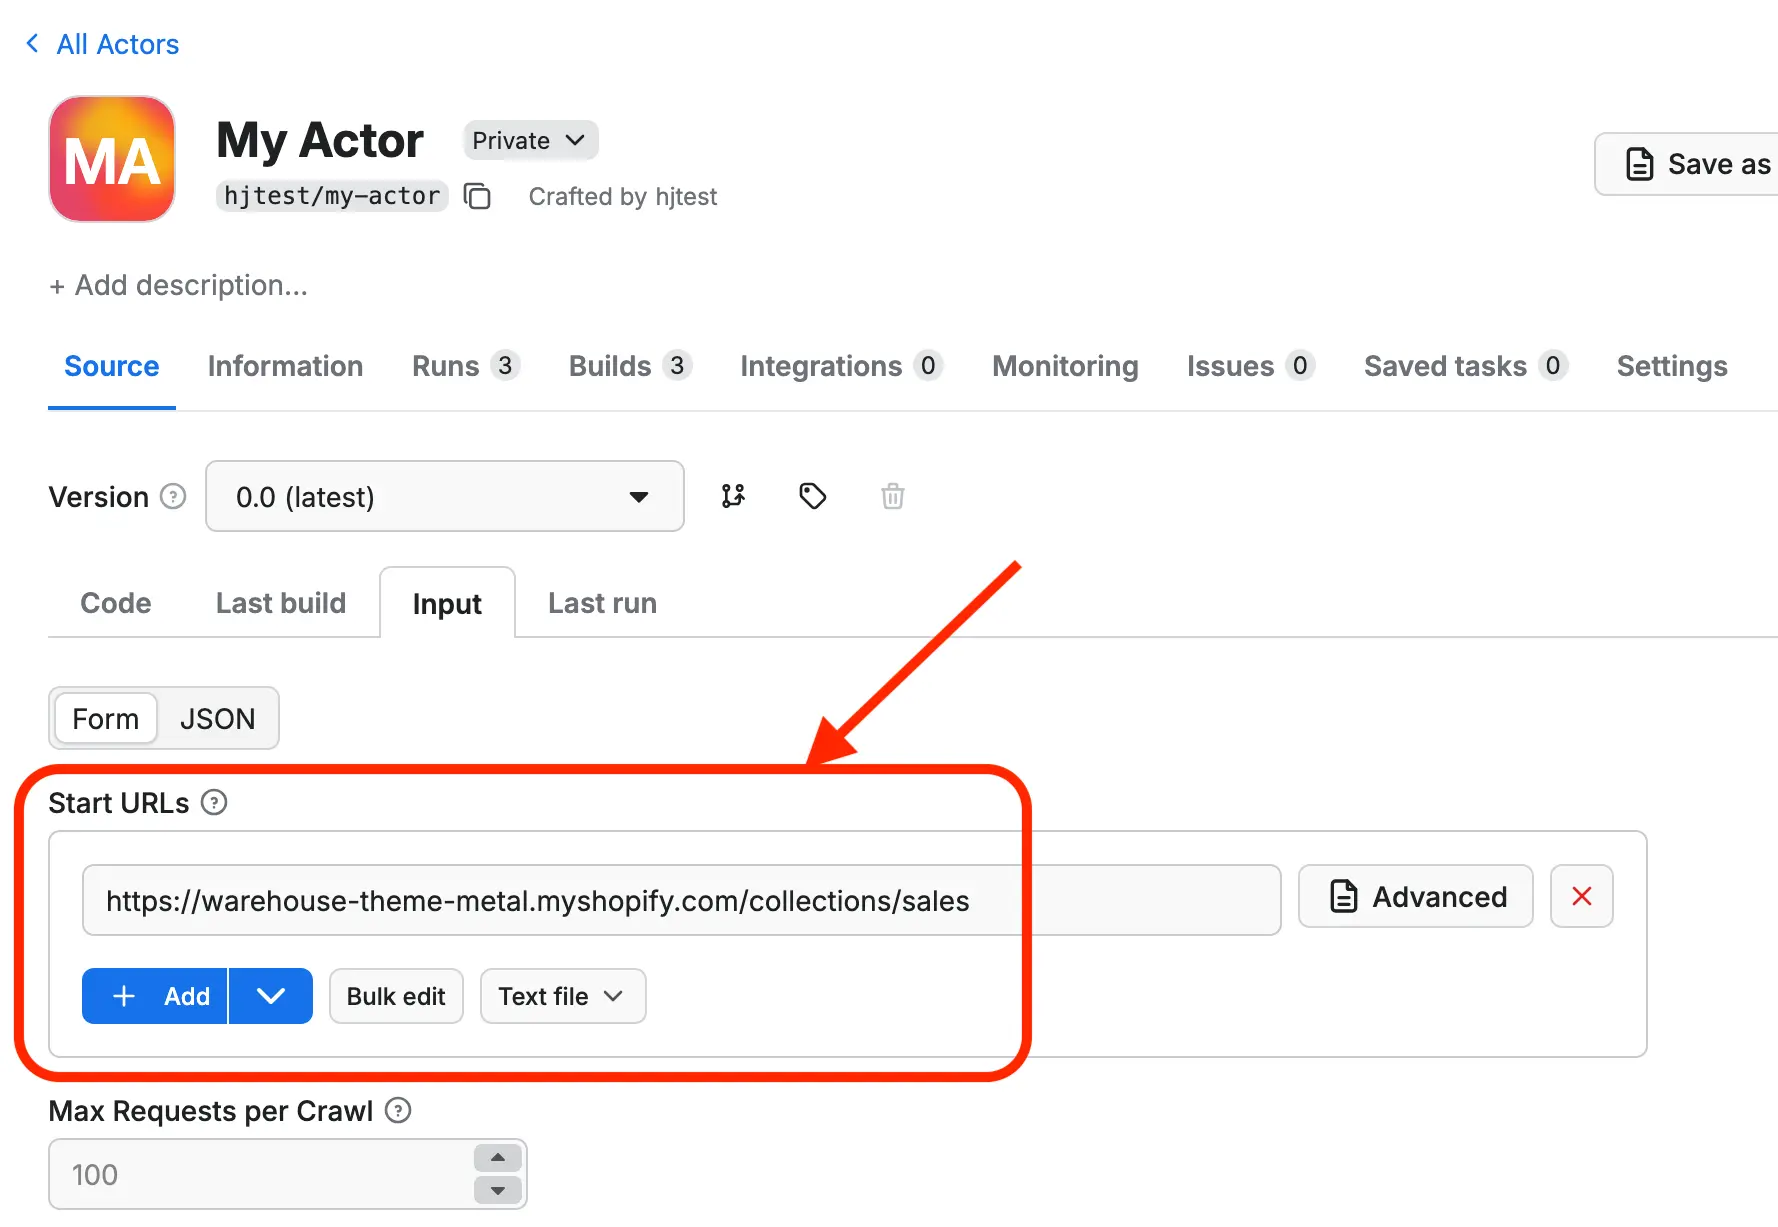
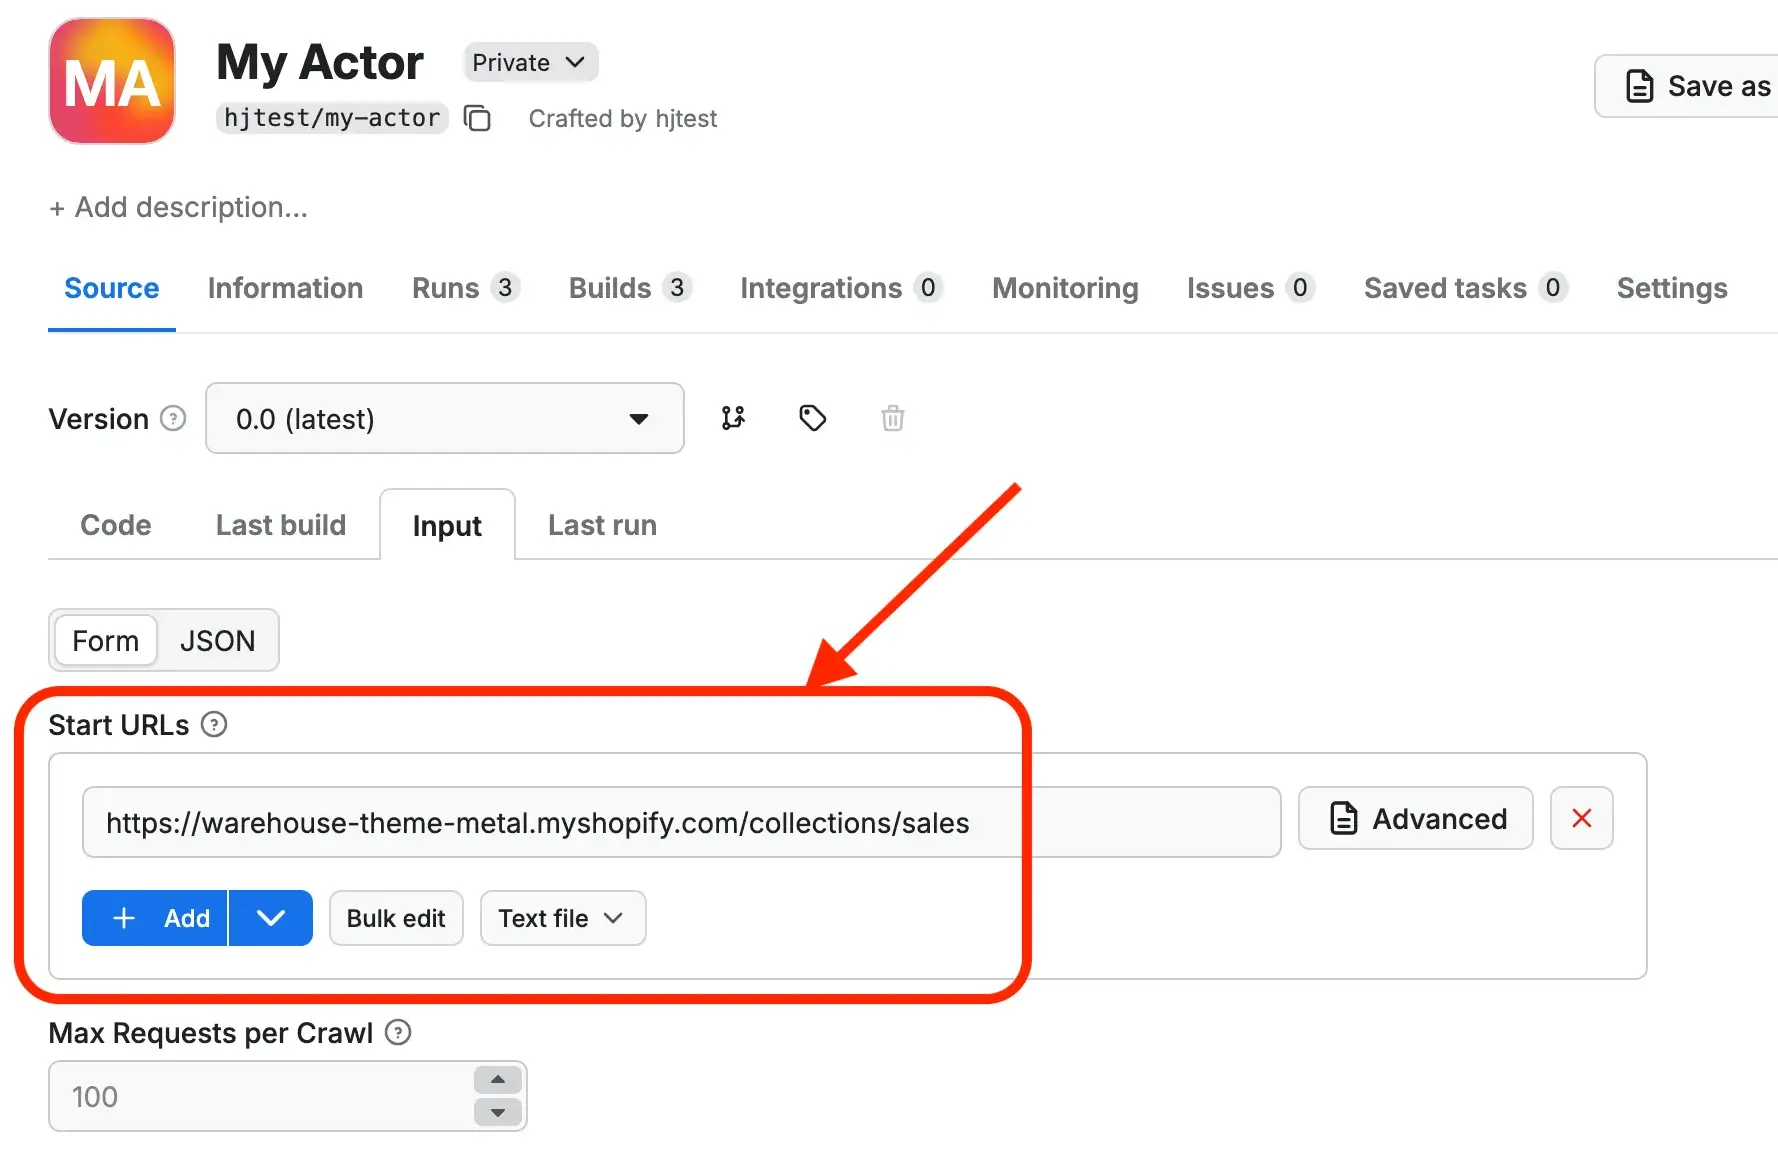
change the new actor flow

diff --git a/sources/academy/platform/scraping_with_apify_and_ai/01_developing_scraper_ai_chat.md b/sources/academy/platform/scraping_with_apify_and_ai/01_developing_scraper_ai_chat.md
@@ -44,21 +44,21 @@ Once we have an active account, we can start working on our scraper. Using the p
 
 Your phone runs apps, Apify runs Actors. If we want Apify to run something for us, it must be wrapped in the Actor structure. Conveniently, the platform provides ready-made templates we can use.
 
-After login, we land on a page called **Apify Store**. Apify serves both as infrastructure where we can privately deploy and run our own scrapers, and as a marketplace where anyone can offer ready-made scrapers to others for rent. But let's hold off on exploring Apify Store for now. We'll go to **Actors**:
+After login, we land on a page called **Apify Store**. Apify serves both as infrastructure where we can privately deploy and run our own scrapers, and as a marketplace where anyone can offer ready-made scrapers to others for rent. But let's hold off on exploring Apify Store for now. We'll go to **Development > My Actors**:
 
-![Welcome screen](images/apify-goto-actors.webp)
+![Navigating the welcome screen](images/apify-nav-store.webp)
 
-In **Actors**, we'll choose **Develop a new Actor**:
+Apify supports several ways to start a new project. In **My Actors**, we'll go with **Use template**:
 
-![New Actor screen](images/apify-goto-develop.webp)
+![Navigating the My Actors screen](images/apify-nav-my-actors.webp)
 
-Apify supports several ways to start a new project. We'll navigate through the screen and select the **Quick start: Crawlee + Cheerio (JavaScript)** code template:
+We'll choose the first **Crawlee + Cheerio** code template which has a yellow rectangle logo containing black letters **JS**. It means it's a template using the JavaScript programming language:
 
-![Template selection screen](images/apify-goto-template.webp)
+![Navigating template selection screen](images/apify-nav-templates.webp)
 
 This opens a preview of the template, where we'll confirm our choice:
 
-![Template preview screen](images/apify-use-template.webp)
+![Navigating the template preview screen](images/apify-nav-template.webp)
 
 And just like that, we have our first Actor! It's only a sample scraper that walks through a website and extracts page titles, but it's something we can already run, and it'll work.
 
